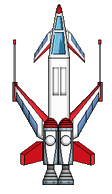
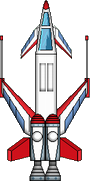
Creating transistion scene

diff --git a/scenes/main_menu.py b/scenes/main_menu.py
@@ -12,13 +12,13 @@ class MainMenu(Scene):
         screen_height = self.screen.get_height()
         self.start_button = TextButton(self.screen, 'Start', 
                                        (screen_width//2, screen_height*3/10), SCENE_PLAY)
-        self.high_score_button = TextButton(self.screen, 'High Score',
-                                            (screen_width//2, screen_height*4/10), SCENE_HIGH_SCORE)
-        self.rules_button = TextButton(self.screen, 'Rules',
-                                       (screen_width//2, screen_height*5/10), SCENE_RULES)
+        self.level_select_button = TextButton(self.screen, 'Level select',
+                                            (screen_width//2, screen_height*4/10), SCENE_LEVEL_SECECT)
+        self.option_button = TextButton(self.screen, 'options',
+                                       (screen_width//2, screen_height*5/10), SCENE_OPTIONS)
         self.quit_button = TextButton(self.screen, 'Quit',
                                       (screen_width//2, screen_height*6/10))
-        self.buttons_list = [self.start_button, self.high_score_button, self.rules_button, self.quit_button]
+        self.buttons_list = [self.start_button, self.level_select_button, self.option_button, self.quit_button]
         self.button_number = 0
 
     def handle_inputs(self, events, key_pressed_list):
@@ -43,8 +43,8 @@ class MainMenu(Scene):
                     self.manager.next_scene(self.buttons_list[self.button_number].scene_reference())
         
     def draw(self):
-        self.screen.fill(BLACK)
+        self.screen.fill(BLUE)
         self.start_button.draw()
-        self.high_score_button.draw()
-        self.rules_button.draw()
+        self.level_select_button.draw()
+        self.option_button.draw()
         self.quit_button.draw()

diff --git a/scene_manager.py b/scene_manager.py
@@ -3,8 +3,9 @@ import pygame
 from constants import *
 from scenes.main_menu import MainMenu
 from scenes.play import Play
-from scenes.high_score import HighScore
-from scenes.rules import Rules
+from scenes.level_select import HighScore
+from scenes.options import Rules
+from scenes.transition_scene import Fader
 
 screen = pygame.display.set_mode((0, 0), pygame.FULLSCREEN)
 
@@ -13,7 +14,7 @@ class SceneError(Exception):
 
 class SceneManager():
     def __init__(self):
-        self.current_scene = MainMenu(self, screen)
+        self.current_scene = Fader(screen, [MainMenu(self, screen)])
 
     def get_scene_names(self):
         '''Method implemented in future when there will be to many scenes'''
@@ -21,12 +22,12 @@ class SceneManager():
     
     def next_scene(self, next_scene):
         if next_scene == SCENE_MAIN_MENU:
-            self.current_scene = MainMenu(self, screen)
+            self.current_scene = Fader(screen, [self.current_scene, MainMenu(self, screen)]) 
         elif next_scene == SCENE_PLAY:
-            self.current_scene = Play(self, screen)
-        elif next_scene == SCENE_HIGH_SCORE:
+            self.current_scene = Fader(screen, [self.current_scene, Play(self, screen)]) 
+        elif next_scene == SCENE_LEVEL_SECECT:
             self.current_scene = HighScore(self, screen)
-        elif next_scene == SCENE_RULES:
+        elif next_scene == SCENE_OPTIONS:
             self.current_scene = Rules(self, screen)
         elif next_scene == SCENE_PAUSE:
             self.current_scene = MainMenu(self, screen)

diff --git a/scenes/transition_scene.py b/scenes/transition_scene.py
@@ -1,0 +1,41 @@
+import pygame
+from constants import *
+from scenes.scene import Scene
+
+class Fader(Scene): 
+    def __init__(self, screen, scenes: list):
+        self.screen = screen
+        self.scenes = scenes
+        self.scene = self.scenes[0]
+        # self.scene_delay = pygame.time.get_ticks() + SCENE_DELAY/2
+        self.fading = 'OUT'
+        self.alpha = 0
+        self.first_scene()
+        self.veil = pygame.Surface(self.screen.get_size())
+        self.veil.fill((0, 0, 0))
+
+    def first_scene(self):
+        if len(self.scenes) == 1: 
+            self.alpha = 255
+            self.fading = 'IN'
+
+    def handle_inputs(self, events, keys_pressed):
+        self.scene.handle_inputs(events, keys_pressed)
+    
+    def update(self, dt):
+        self.scene.update(dt)
+        if self.fading == 'OUT':
+            self.alpha += 8
+            if self.alpha >= 255 and len(self.scenes) > 1:
+                self.fading = 'IN'
+                self.scene = self.scenes[1]
+        else:
+            self.alpha -= 8
+            if self.alpha <= 0:
+                self.fading = None
+
+    def draw(self):
+        self.scene.draw()
+        if self.fading:
+            self.veil.set_alpha(self.alpha)
+            self.screen.blit(self.veil, (0, 0))

diff --git a/scenes/play.py b/scenes/play.py
@@ -1,6 +1,7 @@
 from scenes.scene import Scene
 from player.player import *
 from enemy.enemy import *
+# from transition_scene import FadeTransitionScene
 
 ENEMIES_NUMBER = 9
 
@@ -8,6 +9,7 @@ class Play(Scene):
     def __init__(self, manager, screen):
         super().__init__(manager)
         self.screen = screen
+        self.background = pygame.image.load('images/Space-Background-Images.jpg')
         self.player = Player(self.screen)
         self.enemies_list = []
         self.all_sprites = pygame.sprite.RenderUpdates()
@@ -44,7 +46,6 @@ class Play(Scene):
             self.enemies.add(enemy)
             self.all_sprites.add(enemy)
     
-    # Zastanowić się czy nie przenieść wykrywania przycisków strikte do player
     @level_starting_delay
     def handle_inputs(self, events, key_pressed_list):
         if key_pressed_list[pygame.K_w]:
@@ -101,6 +102,7 @@ class Play(Scene):
             self.manager.next_scene(SCENE_MAIN_MENU)
 
     def draw(self):
-        self.screen.fill(BLACK)
+        self.screen.blit(self.background, (0, 0))
+        self.screen.set_alpha(100)
         for entity in self.all_sprites:
             self.screen.blit(entity.surf, entity.rect)

diff --git a/enemy/enemy.py b/enemy/enemy.py
@@ -16,13 +16,13 @@ class Enemy(pygame.sprite.Sprite):
         self.time = pygame.time.get_ticks()
         self.random_fire_delay()
         self.surf = pygame.image.load('images/enemy.png').convert_alpha()
+        self.surf = pygame.transform.scale(self.surf, (self.screen.get_width()//30, self.screen.get_height()//15))
         self.rect = self.surf.get_rect()
         self.starting_position()
         self.position = self.rect.centerx
         self.mask = pygame.mask.from_surface(self.surf)
         self.movement_speed = self.screen.get_width()//15
         self.dt = 0
-
 
     def starting_position(self):
         self.rect.centerx = self.set_position[0] 

diff --git a/player/player.py b/player/player.py
@@ -11,6 +11,7 @@ class Player(pygame.sprite.Sprite):
         super().__init__()
         self.screen = screen
         self.surf = pygame.image.load('images/player.png').convert_alpha()
+        self.surf = pygame.transform.scale(self.surf, (self.screen.get_width()//20, self.screen.get_height()//10))
         self.rect = self.surf.get_rect()
         self.starting_position()
         self.mask = pygame.mask.from_surface(self.surf)

diff --git a/constants.py b/constants.py
@@ -5,12 +5,12 @@ import pygame
 # SCREENRECT = pygame.Rect(0, 0, SCREEN_WIDTH, SCREEN_HEIGHT)
 FPS = 144
 
-SCENE_DELAY = 2000
+SCENE_DELAY = 1000
 
 SCENE_MAIN_MENU = 'scene main menu'
 SCENE_PLAY = 'scene play'
-SCENE_HIGH_SCORE = 'scene high score'
-SCENE_RULES = 'scene rules'
+SCENE_LEVEL_SECECT = 'scene level select'
+SCENE_OPTIONS = 'scene options'
 SCENE_PAUSE = 'scene pause'
 
 WHITE = (255, 255, 255)

diff --git a/scenes/level_select.py b/scenes/level_select.py
@@ -1,0 +1,9 @@
+from scenes.scene import Scene
+
+class ToBeImplemented(Exception):
+    pass
+
+class HighScore():
+    def __init__(self, manager, screen):
+        raise ToBeImplemented("This will be implemented in the future")
+    

diff --git a/scenes/options.py b/scenes/options.py
@@ -1,0 +1,9 @@
+from scenes.scene import Scene
+
+class ToBeImplemented(Exception):
+    pass
+
+class Rules():
+    def __init__(self, manager, screen):
+        raise ToBeImplemented("This will be implemented in the future")
+    

diff --git a/scenes/pause.py b/scenes/pause.py
@@ -1,5 +1,5 @@
-from stage import Stage
+from scene import Scene
 
-class Pause(Stage):
+class Pause(Scene):
     def __init__(self):
         pass
